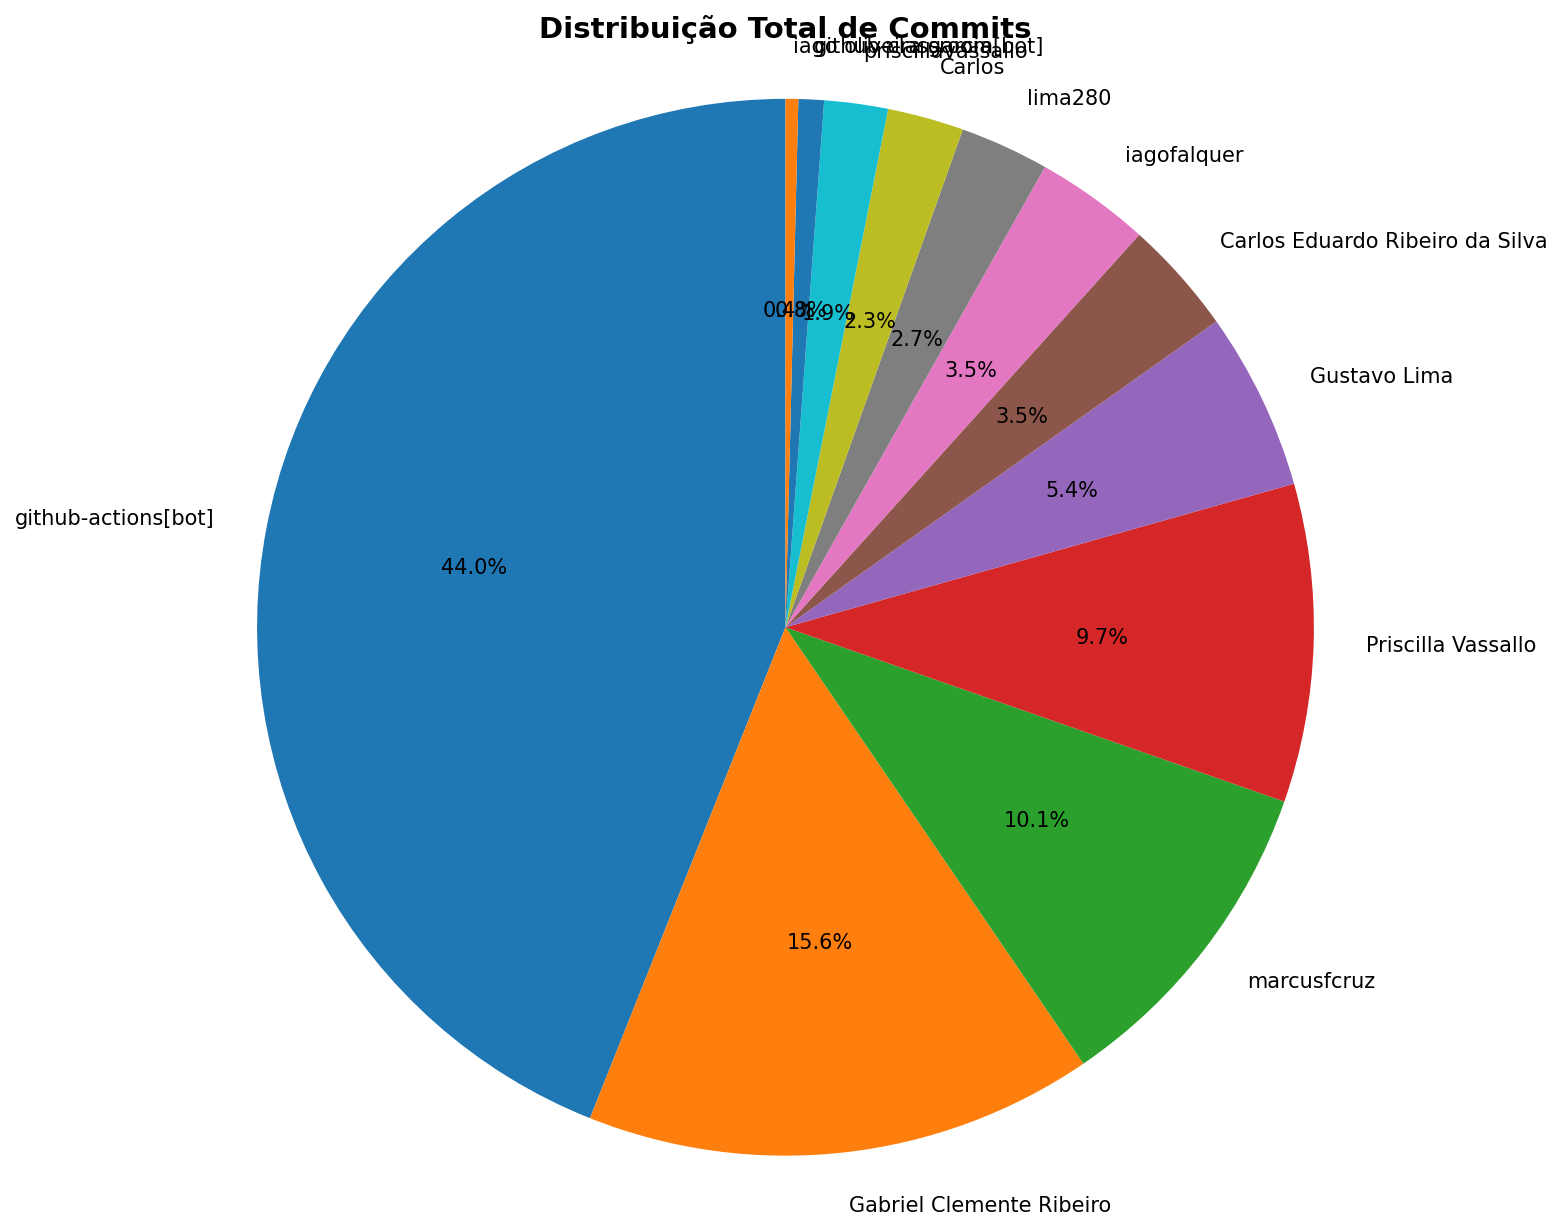
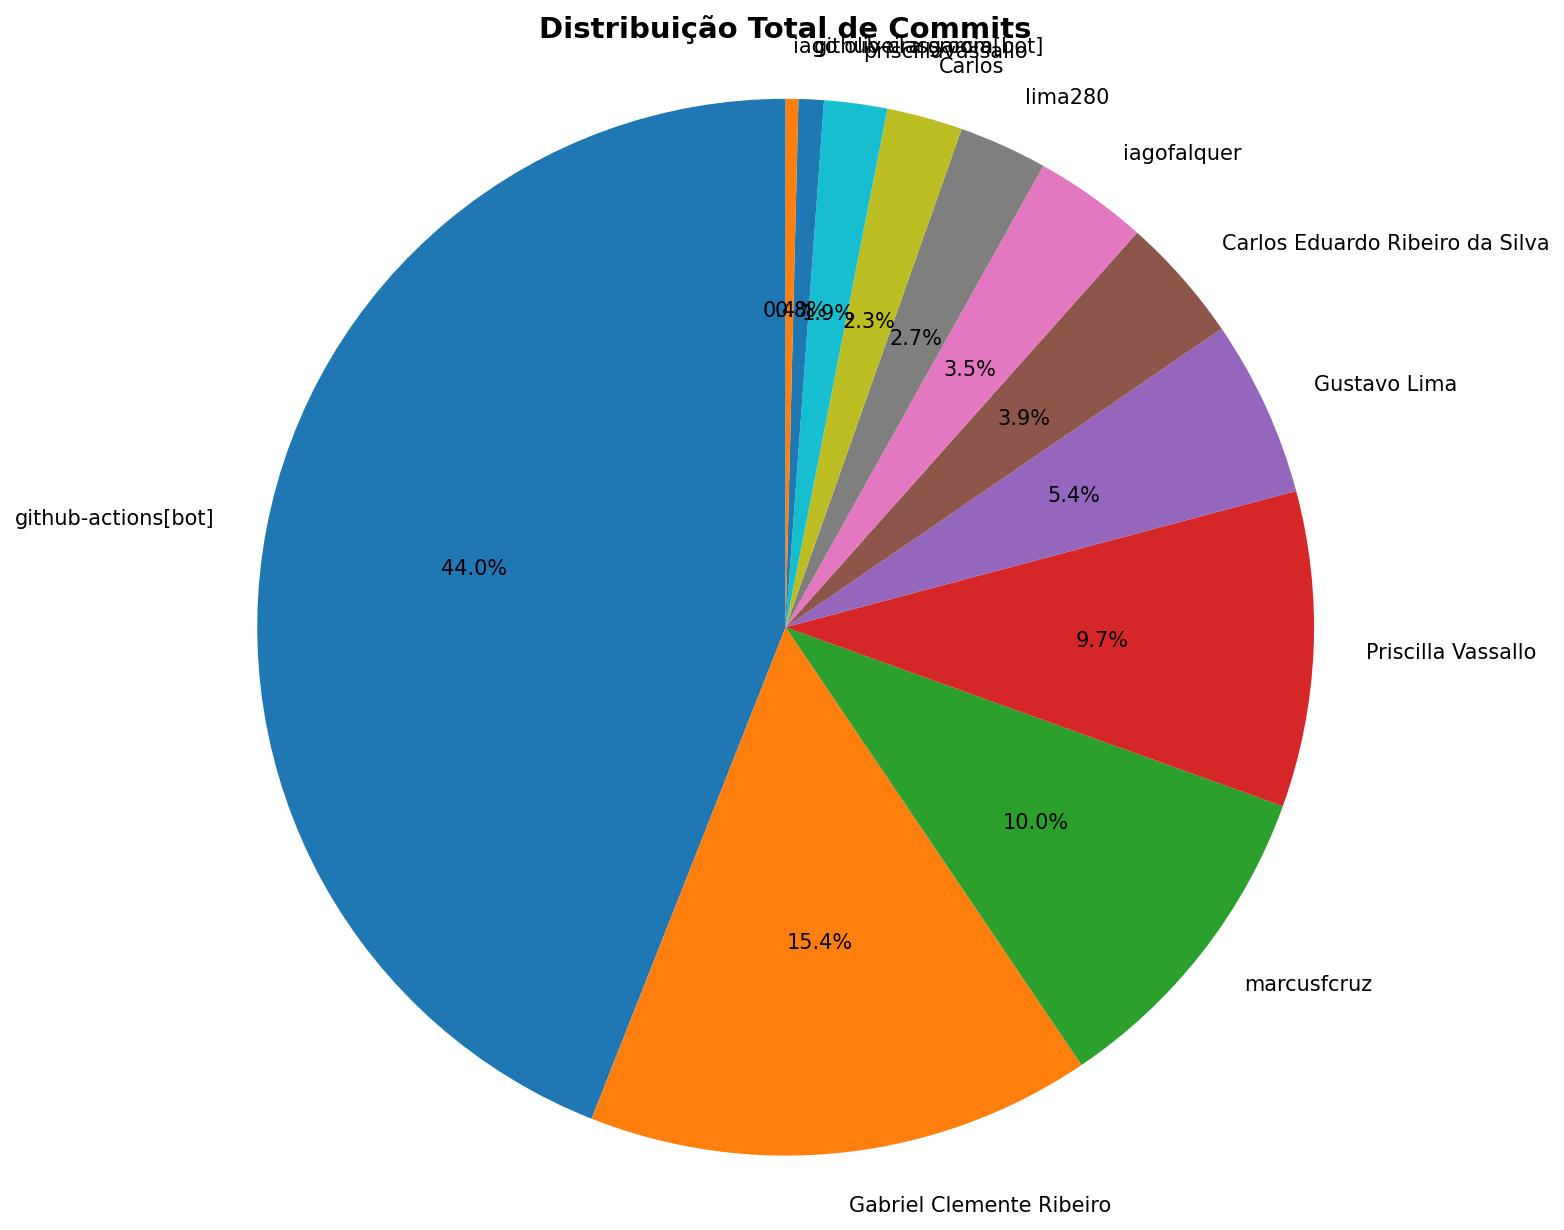
📊 Atualizar relatório de contribuições [skip ci]

diff --git a/documentos/CONTRIBUTION_REPORT.md b/documentos/CONTRIBUTION_REPORT.md
@@ -1,6 +1,6 @@
 # 📊 Relatório de Contribuições do Projeto
 
-**Última atualização:** 11/05/2026 23:53
+**Última atualização:** 16/05/2026 16:00
 
 ---
 
@@ -9,11 +9,11 @@
 | Aluno                           |   Commits |   Linhas+ |   Linhas- |   Arquivos |   Docs Commits |   Docs Arquivos |
 |---------------------------------|-----------|-----------|-----------|------------|----------------|-----------------|
 | Carlos                          |         6 |        26 |        14 |          2 |              6 |               1 |
-| Carlos Eduardo Ribeiro da Silva |         9 |       847 |        91 |          5 |              2 |               0 |
+| Carlos Eduardo Ribeiro da Silva |        10 |      1163 |        91 |          9 |              2 |               0 |
 | Gabriel Clemente Ribeiro        |        40 |      1287 |       803 |         16 |             27 |               2 |
 | Gustavo Lima                    |        14 |       258 |       120 |          5 |             14 |               2 |
 | Priscilla Vassallo              |        25 |       266 |       199 |          2 |             25 |               1 |
-| github-actions[bot]             |       113 |       687 |       607 |          3 |            113 |               1 |
+| github-actions[bot]             |       114 |       692 |       612 |          3 |            114 |               1 |
 | github-classroom[bot]           |         2 |      1548 |         0 |         19 |              2 |               3 |
 | iago oliveira garcia            |         1 |       338 |       147 |          8 |              0 |               0 |
 | iagofalquer                     |         9 |        98 |       119 |          1 |              9 |               1 |
@@ -24,17 +24,19 @@
 
 ## 📅 Contribuições Semanais (Todo o Semestre)
 
-**2026-05-04**: Carlos Eduardo Ribeiro da Silva: 9, Gabriel Clemente Ribeiro: 5, Priscilla Vassallo: 5, github-actions[bot]: 15, iago oliveira garcia: 1, lima280: 3, priscillavassallo: 5
+**2026-05-09**: Carlos Eduardo Ribeiro da Silva: 3, Gabriel Clemente Ribeiro: 3, Priscilla Vassallo: 5, github-actions[bot]: 13, iago oliveira garcia: 1, lima280: 3, priscillavassallo: 3
 
-**2026-04-27**: Carlos: 4, Gabriel Clemente Ribeiro: 23, Priscilla Vassallo: 4, github-actions[bot]: 26, lima280: 2, marcusfcruz: 4
+**2026-05-02**: Carlos: 2, Carlos Eduardo Ribeiro da Silva: 7, Gabriel Clemente Ribeiro: 8, Priscilla Vassallo: 4, github-actions[bot]: 13, lima280: 2, marcusfcruz: 4, priscillavassallo: 2
 
-**2026-04-20**: github-actions[bot]: 2, lima280: 2
+**2026-04-25**: Carlos: 2, Gabriel Clemente Ribeiro: 17, github-actions[bot]: 18, lima280: 2
 
-**2026-04-06**: Carlos: 2, Gabriel Clemente Ribeiro: 12, Gustavo Lima: 6, Priscilla Vassallo: 16, github-actions[bot]: 64, iagofalquer: 9, marcusfcruz: 22
+**2026-04-11**: Carlos: 2, Gustavo Lima: 2, Priscilla Vassallo: 8, github-actions[bot]: 40, iagofalquer: 9, marcusfcruz: 22
 
-**2026-03-23**: Gustavo Lima: 8, github-actions[bot]: 6
+**2026-04-04**: Gabriel Clemente Ribeiro: 12, Gustavo Lima: 4, Priscilla Vassallo: 8, github-actions[bot]: 24
 
-**2026-03-16**: github-classroom[bot]: 2
+**2026-03-28**: Gustavo Lima: 8, github-actions[bot]: 6
+
+**2026-03-21**: github-classroom[bot]: 2
 
 
 
